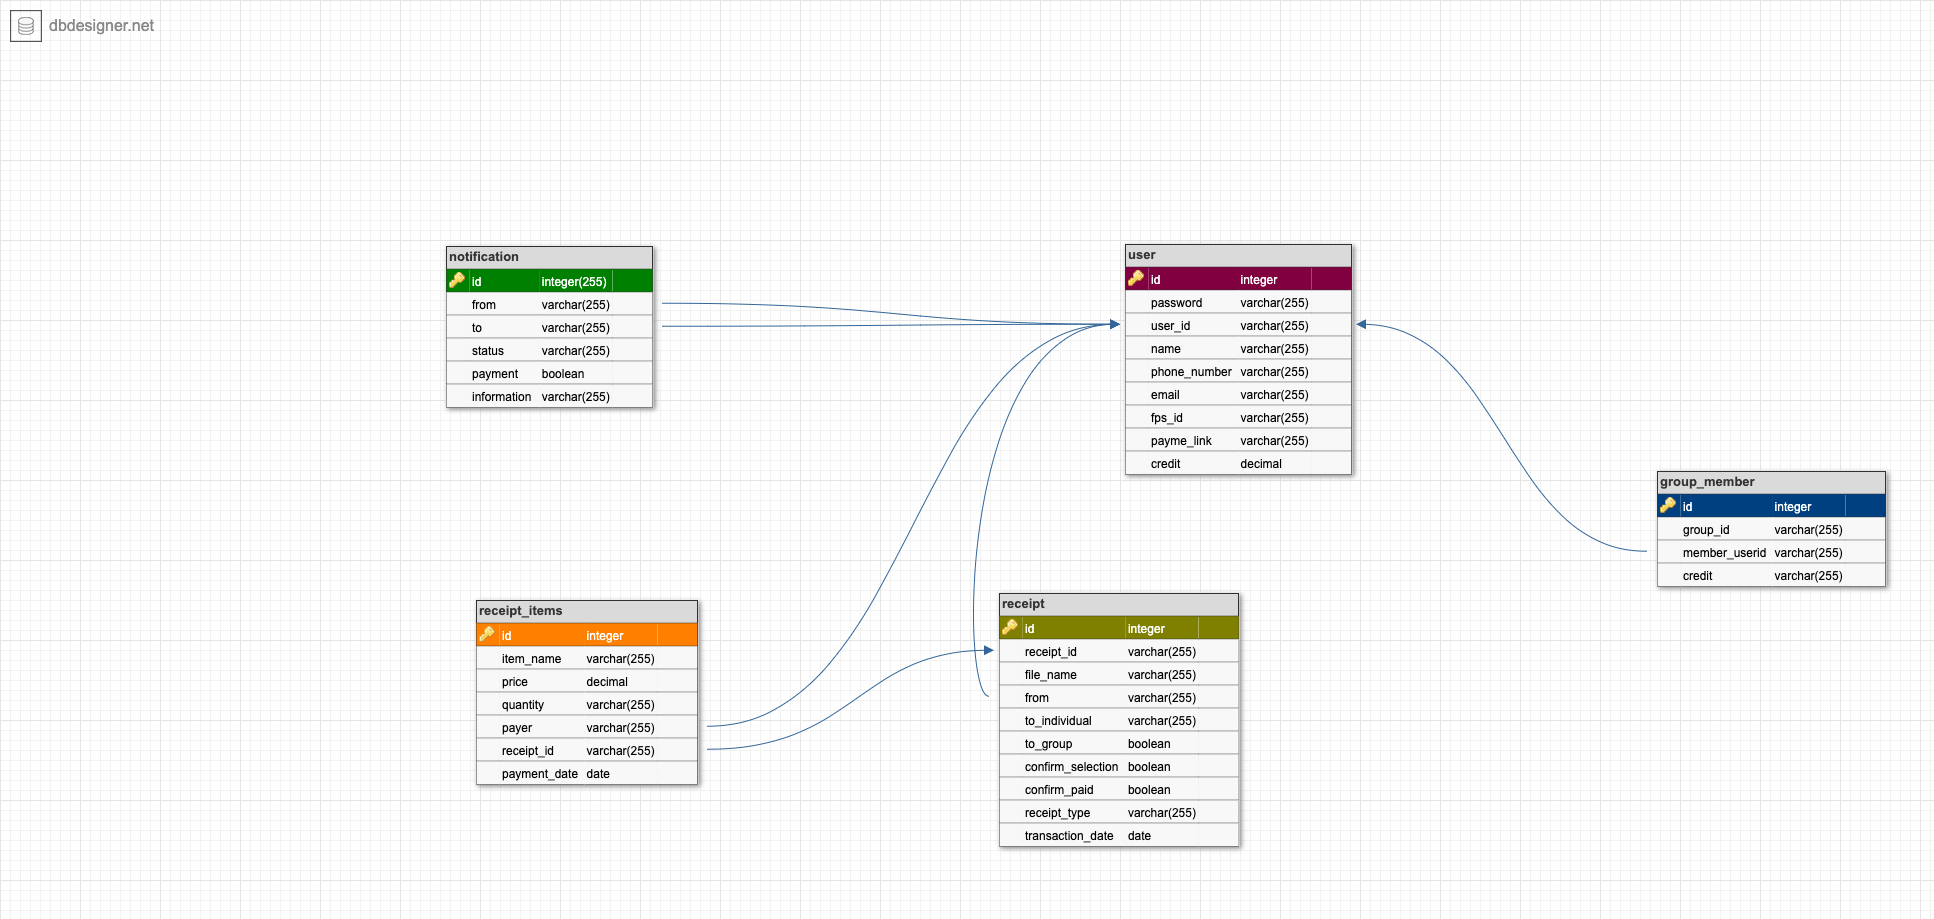
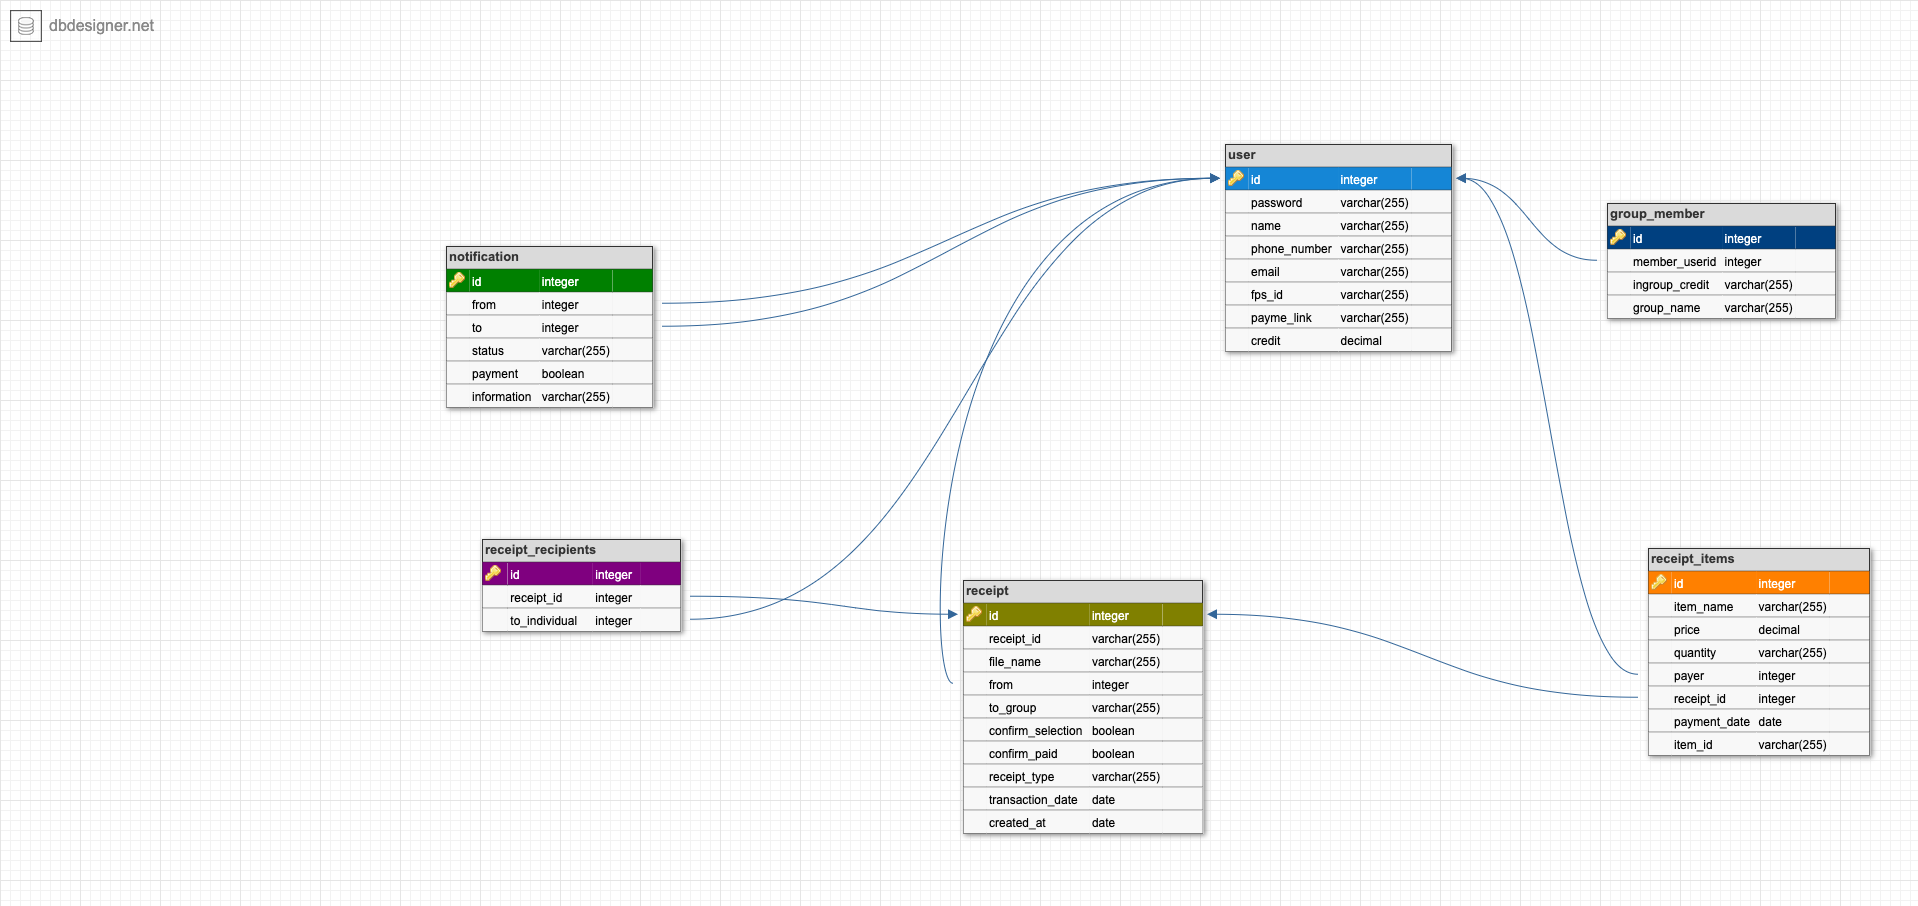
db design

diff --git a/migrations/20230430112906_001-create-tables.ts b/migrations/20230430112906_001-create-tables.ts
@@ -1,0 +1,86 @@
+import { Knex } from 'knex'
+
+export async function up(knex: Knex): Promise<void> {
+  if (!(await knex.schema.hasTable('user'))) {
+    await knex.schema.createTable('user', table => {
+      table.increments('id')
+      table.string('password', 255).notNullable()
+      table.string('name', 255).notNullable().unique()
+      table.string('phone_number', 255).notNullable().unique()
+      table.string('email', 255).notNullable().unique()
+      table.string('fps_id', 255).notNullable().unique()
+      table.string('payme_link', 255).notNullable().unique()
+      table.decimal('credit').notNullable()
+      table.timestamps(false, true)
+    })
+  }
+
+  if (!(await knex.schema.hasTable('receipt'))) {
+    await knex.schema.createTable('receipt', table => {
+      table.increments('id')
+      table.string('receipt_id', 255).notNullable().unique()
+      table.string('file_name', 255).notNullable()
+      table.integer('from').unsigned().notNullable().references('user.id')
+      table.string('to_group', 255).nullable()
+      table.boolean('confirm_selection').notNullable()
+      table.boolean('confirm_paid').notNullable()
+      table.string('receipt_type', 255).notNullable()
+      table.date('transaction_date').nullable()
+      table.timestamps(false, true)
+    })
+  }
+
+  if (!(await knex.schema.hasTable('notification'))) {
+    await knex.schema.createTable('notification', table => {
+      table.increments('id')
+      table.integer('from').unsigned().notNullable().references('user.id')
+      table.integer('to').unsigned().notNullable().references('user.id')
+      table.string('status', 255).notNullable()
+      table.boolean('payment').notNullable()
+      table.string('information', 255).nullable()
+      table.timestamps(false, true)
+    })
+  }
+
+  if (!(await knex.schema.hasTable('group_member'))) {
+    await knex.schema.createTable('group_member', table => {
+      table.increments('id')
+      table.integer('member_userid').unsigned().notNullable().unique().references('user.id')
+      table.string('ingroup_credit', 255).notNullable()
+      table.string('group_name', 255).notNullable()
+      table.timestamps(false, true)
+    })
+  }
+
+  if (!(await knex.schema.hasTable('receipt_recipients'))) {
+    await knex.schema.createTable('receipt_recipients', table => {
+      table.increments('id')
+      table.integer('receipt_id').unsigned().notNullable().references('receipt.id')
+      table.integer('to_individual').unsigned().notNullable().references('user.id')
+      table.timestamps(false, true)
+    })
+  }
+
+  if (!(await knex.schema.hasTable('receipt_items'))) {
+    await knex.schema.createTable('receipt_items', table => {
+      table.increments('id')
+      table.string('item_name', 255).notNullable()
+      table.decimal('price').notNullable()
+      table.string('quantity', 255).notNullable()
+      table.integer('payer').unsigned().nullable().references('user.id')
+      table.integer('receipt_id').unsigned().notNullable().references('receipt.id')
+      table.date('payment_date').nullable()
+      table.string('item_id', 255).notNullable()
+      table.timestamps(false, true)
+    })
+  }
+}
+
+export async function down(knex: Knex): Promise<void> {
+  await knex.schema.dropTableIfExists('receipt_items')
+  await knex.schema.dropTableIfExists('receipt_recipients')
+  await knex.schema.dropTableIfExists('group_member')
+  await knex.schema.dropTableIfExists('notification')
+  await knex.schema.dropTableIfExists('receipt')
+  await knex.schema.dropTableIfExists('user')
+}

diff --git a/knexfile.ts b/knexfile.ts
@@ -1,0 +1,52 @@
+import dotenv from "dotenv";
+
+dotenv.config();
+
+module.exports = {
+  development: {
+    debug: true,
+    client: "postgresql",
+    connection: {
+      database: process.env.DB_NAME,
+      user: process.env.DB_USERNAME,
+      password: process.env.DB_PASSWORD,
+    },
+    pool: {
+      min: 2,
+      max: 10,
+    },
+    migrations: {
+      tableName: "knex_migrations",
+    },
+  },
+  staging: {
+    client: "postgresql",
+    connection: {
+      database: process.env.DB_NAME,
+      user: process.env.DB_USERNAME,
+      password: process.env.DB_PASSWORD,
+    },
+    pool: {
+      min: 2,
+      max: 10,
+    },
+    migrations: {
+      tableName: "knex_migrations",
+    },
+  },
+  production: {
+    client: "postgresql",
+    connection: {
+      database: process.env.DB_NAME,
+      user: process.env.DB_USERNAME,
+      password: process.env.DB_PASSWORD,
+    },
+    pool: {
+      min: 2,
+      max: 10,
+    },
+    migrations: {
+      tableName: "knex_migrations",
+    },
+  },
+};

diff --git a/claimReceiptController.ts b/claimReceiptController.ts
@@ -1,6 +1,6 @@
 import { Request, Response, Router } from "express";
 import { Server as socketIO } from "socket.io";
-import { claimReceiptService } from "./claimReceiptservice";
+import { claimReceiptService } from "./claimReceiptService",
 import { wrapControllerMethod } from "./createAPI";
 
 export class claimReceiptController {

diff --git a/db.ts b/db.ts
@@ -1,0 +1,4 @@
+import Knex from "knex";
+const knexConfig = require("./knexfile");
+let profile = knexConfig.development;
+export let knex = Knex(profile);
